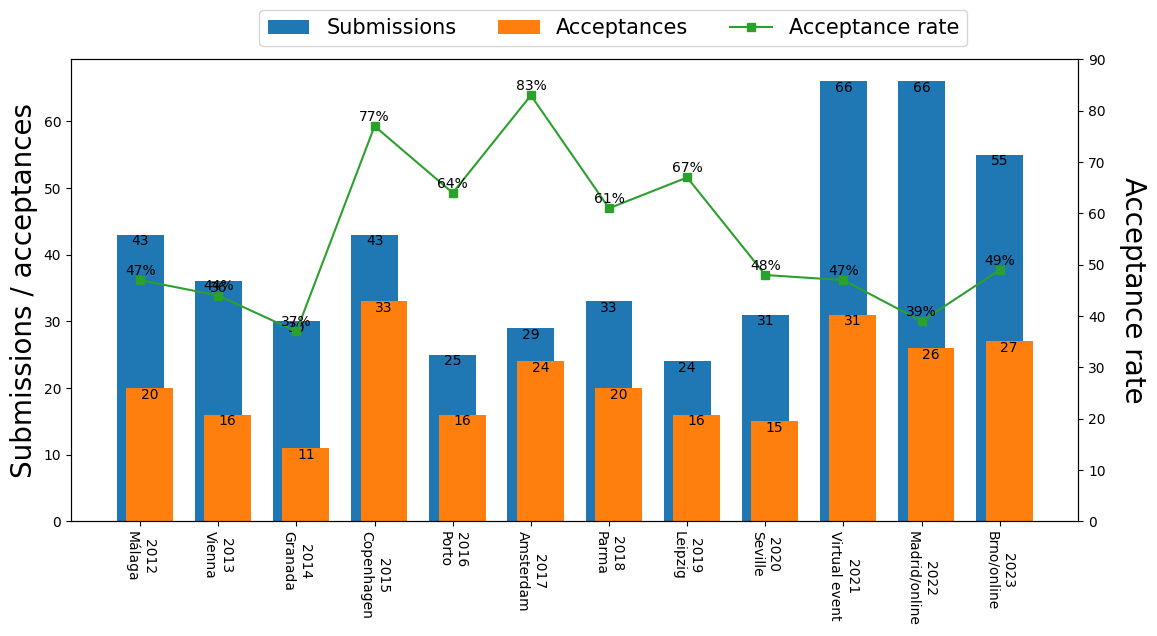
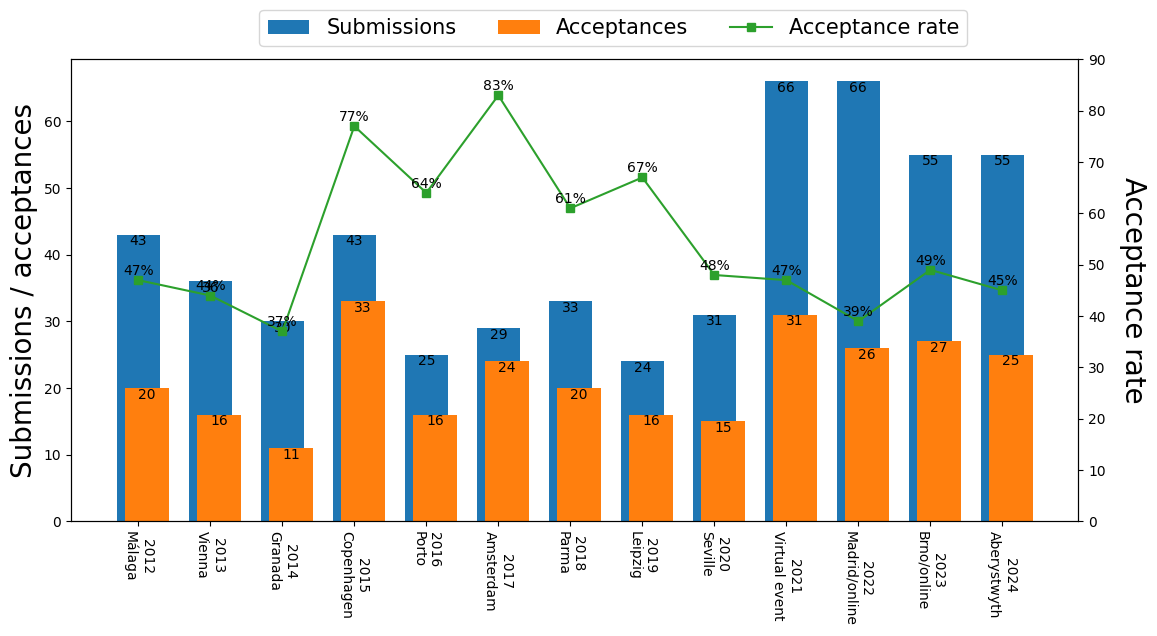
updated stats of gecco and evostar confs

Changed region(s): [[0.0933, 0.1195, 0.9023, 0.9858], [0.4667, 0.239, 0.6223, 0.3286], [0.4045, 0.1195, 0.4667, 0.239]]

diff --git a/index.md b/index.md
@@ -79,6 +79,7 @@ This table provides statistics of full papers, not two-page poster papers.
 | 2021 | 362        | 134        | 37%             | Lille (online)       | 
 | 2022 | 426        | 158        | 37%             | Boston (hybrid)       | 
 | 2023 | 519        | 180        | 35%             | Lisbon (hybrid)       | 
+| 2024 | 495        | 178        | 36%             | Melbourne (hybrid)       | 
 
 ![GECCO](fig/stats_gecco.png) 
 
@@ -117,6 +118,7 @@ It is not obvious how to calculate the acceptance rates of GECCO poster papers. 
 | 2021 | 362        | 136        | 134             | 75%             | Lille (online)       | 
 | 2022 | 426        | 184        | 158             | 80%             | Boston (hybrid)       | 
 | 2023 | 519        | 187        | 180             | 71%             | Lisbon (hybrid)       | 
+
 
 ![GECCO (poster)](fig/stats_gecco_poster.png) 
 
@@ -266,6 +268,7 @@ EuroGP is held as part of EvoStar, which consists of EuroGP, EvoApplications, Ev
 | 2021 | 27         | 17         | 63%             | Virtual event    | 
 | 2022 | 35         | 19         | 54%             | Madrid/online    | 
 | 2023 | 38         | 22         | 58%             | Brno/online    | 
+| 2024 | 24         | 13         | 54%             | Aberystwyth    | 
 
 ![EuroGP](fig/stats_eurogp.png) 
 
@@ -302,6 +305,7 @@ EvoCOP is held as part of EvoStar, which consists of EuroGP, EvoApplications, Ev
 | 2021 | 42         | 14         | 33%             | Virtual event    | 
 | 2022 | 28         | 13         | 46%             | Madrid/online    |
 | 2023 | 32         | 15         | 47%             | Brno/online    |
+| 2024 | 28         | 12         | 43%             | Aberystwyth    | 
 
 ![EvoCOP](fig/stats_evocop.png) 
 
@@ -327,6 +331,7 @@ EvoMUSART is held as part of EvoStar, which consists of EuroGP, EvoApplications,
 | 2021 | 66         | 31         | 47%             | Virtual event    | 
 | 2022 | 66         | 26         | 39%             | Madrid/online    |
 | 2023 | 55         | 27         | 49%             | Brno/online    |
+| 2024 | 55         | 25         | 45%             | Aberystwyth    | 
 
 ![EvoMUSART](fig/stats_evomusart.png) 
 
@@ -355,6 +360,7 @@ EvoApplications is held as part of EvoStar, which consists of EuroGP, EvoApplica
 | 2021 | 78         | 51         | 65%             | Virtual event    | 
 | 2022 | 67         | 46         | 69%             | Madrid/online    |
 | 2023 | 201         | 51         | 25%             | Brno/online    |
+| 2024 | 77         | 33         | 43%             | Aberystwyth    | 
 
 ![EvoApplications](fig/stats_evoapp.png) 
 
